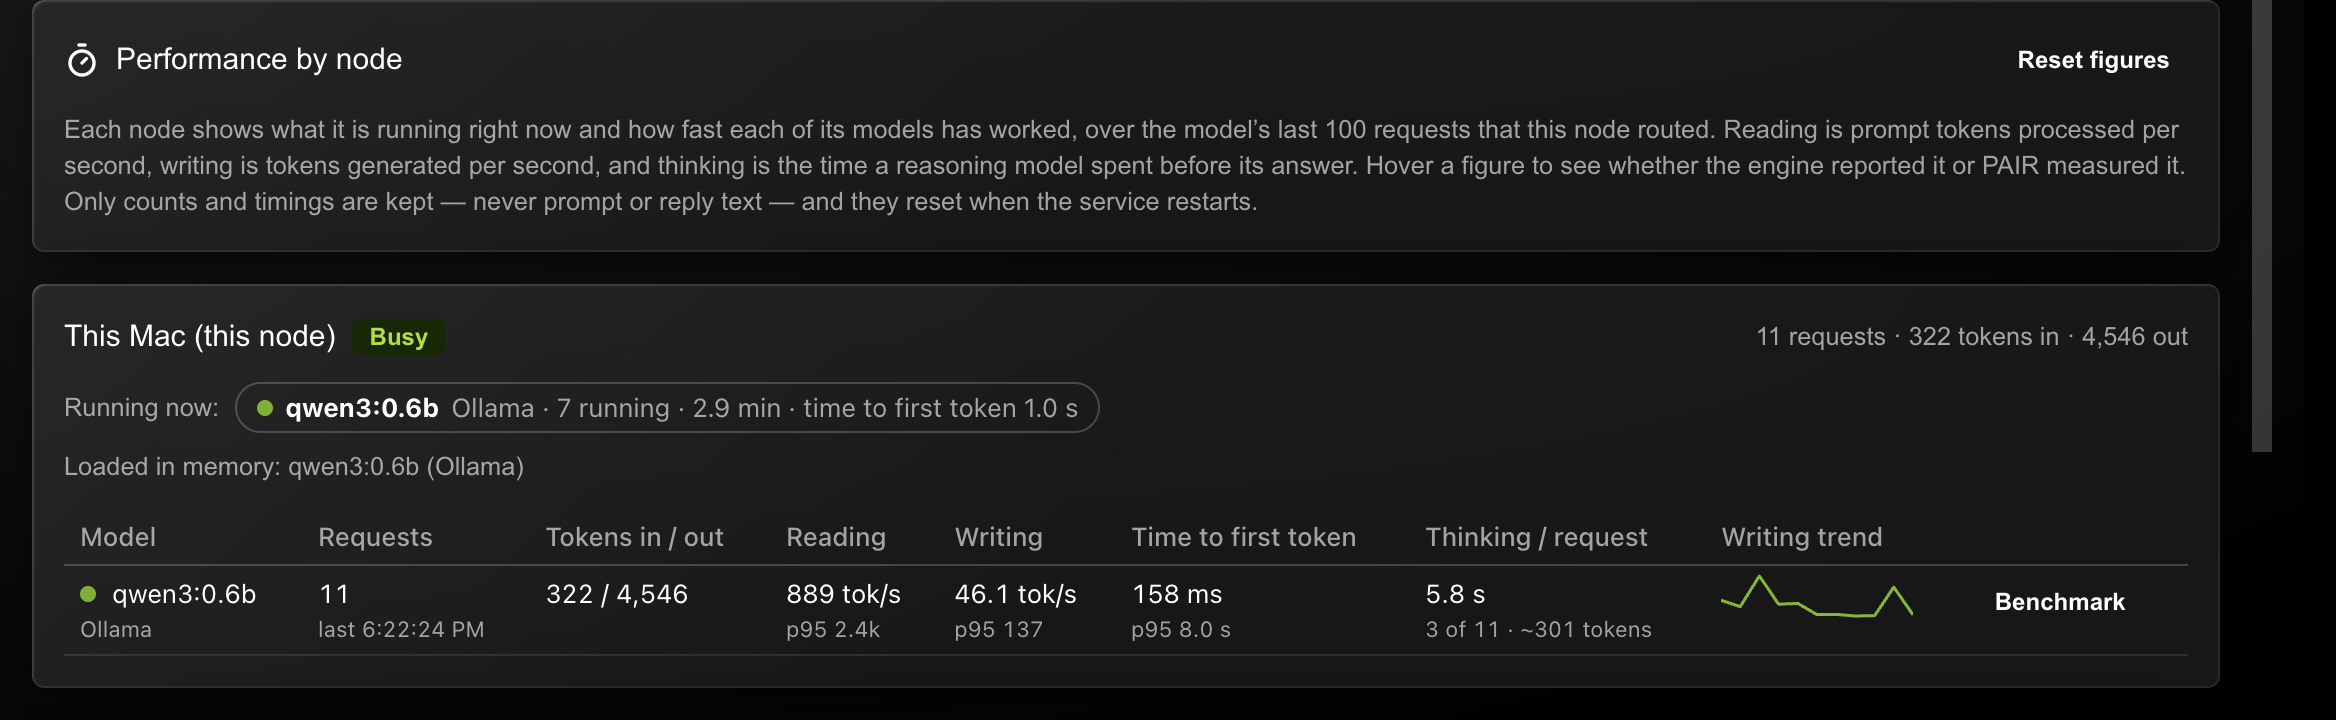
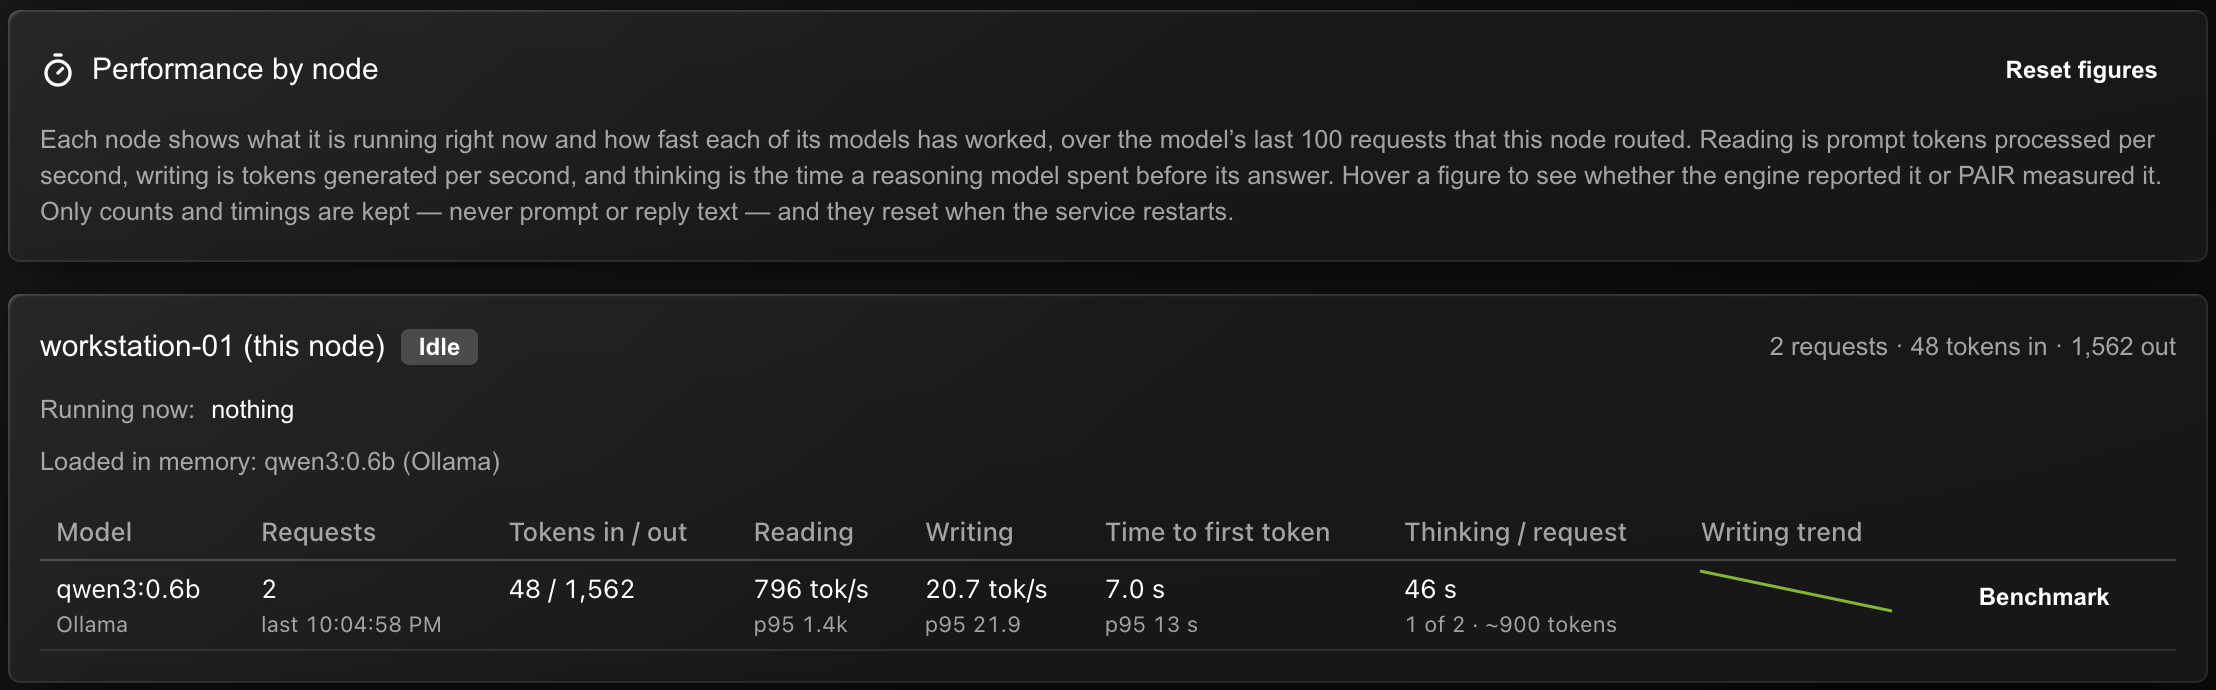
Screenshots of the 1.3.0 features in the README and docs
Adds the live Overview, pause and stop, About this model and Look up on the
web, and replaces the Performance images, all taken from the published
1.3.0 app with machine names and addresses replaced.

diff --git a/README.md b/README.md
@@ -27,6 +27,8 @@ The rest of this README is PAIR's own documentation and applies to PAIR Plus
 unchanged unless noted. PAIR Plus nodes and NVIDIA PAIR 1.0 nodes work together
 in one cluster.
 
+![The PAIR Plus Overview: jobs on the left, and node cards on the right, the first showing two requests in real time, one thinking and one answering, with their session and agent.](docs/assets/onboarding/overview/02-overview-live.png)
+
 ## What only PAIR Plus does
 
 | | NVIDIA PAIR 1.0 | PAIR Plus |
@@ -102,7 +104,14 @@ far. **Run benchmark** is a per-model test: four fixed prompts through PAIR, so
 models compare like for like. PAIR keeps only
 the counts and timings, never the text.
 
-![The Performance tab: a node's live and per-model figures, and a finished benchmark run.](docs/assets/onboarding/performance/01-performance.png)
+![The Performance tab: each node with what it is running and each model's requests, tokens in and out, reading and writing speed, time to first token, thinking per request and writing trend.](docs/assets/onboarding/performance/01-performance.png)
+
+The stopwatch on a node card shows its requests as they run: one thinking, one
+answering, each with its session and agent.
+
+![Requests in real time on a node card: a thinking request and an answering one, with tokens in and out, time to first token, writing speed and thinking so far.](docs/assets/onboarding/performance/03-live-requests.png)
+
+![A finished benchmark of qwen3:0.6b: short prompt, long input, long output and thinking, with tokens, time to first token, reading and writing speed, and time spent thinking for each step.](docs/assets/onboarding/performance/02-benchmark.png)
 
 ### About this model
 
@@ -114,6 +123,12 @@ Hugging Face and project pages its GGUF file names. It works for models on
 other nodes too. When the engine leaves something out, **Look up on the web**
 reads the model's own page with a small local model and fills only what the
 page states, labelled with where it came from.
+
+![A model's menu: Load, Eject, About this model…, Context & sessions… and Delete.](docs/assets/onboarding/models/01-model-menu.png)
+
+![About qwen3:0.6b: a link to its Ollama library page, its capabilities (completion, thinking, tools), family, architecture, parameters, quantization, format, trained context, size, licence and default generation settings.](docs/assets/onboarding/models/02-about-this-model.png)
+
+![From the model's page: the name, description, version and whether it is a mixture of experts, read from ollama.com by qwen3.5:4b, labelled with when and from where.](docs/assets/onboarding/models/03-look-up-on-the-web.png)
 
 ### Each model's settings at a glance
 
@@ -131,6 +146,14 @@ new requests and lets the running ones finish; a stopped node cancels them.
 Either way, new requests go to other nodes that have the model, and the state
 survives a restart. Any cluster member can pause or stop any other. See
 [Pausing and Stopping a Node](docs/node-state.mdx).
+
+![A node card with its Pause and Stop buttons above the performance, live requests and engine-settings buttons.](docs/assets/onboarding/node-state/01-node-controls.png)
+
+![The same node paused: a Paused badge under its name, and Resume in place of Pause.](docs/assets/onboarding/node-state/02-paused.png)
+
+![Stop asks first: every request the node is running is cancelled, and requests go to other nodes that can serve them.](docs/assets/onboarding/node-state/03-stop-confirm.png)
+
+![The node stopped: a Stopped badge, and only Resume.](docs/assets/onboarding/node-state/04-stopped.png)
 
 ### The API
 
